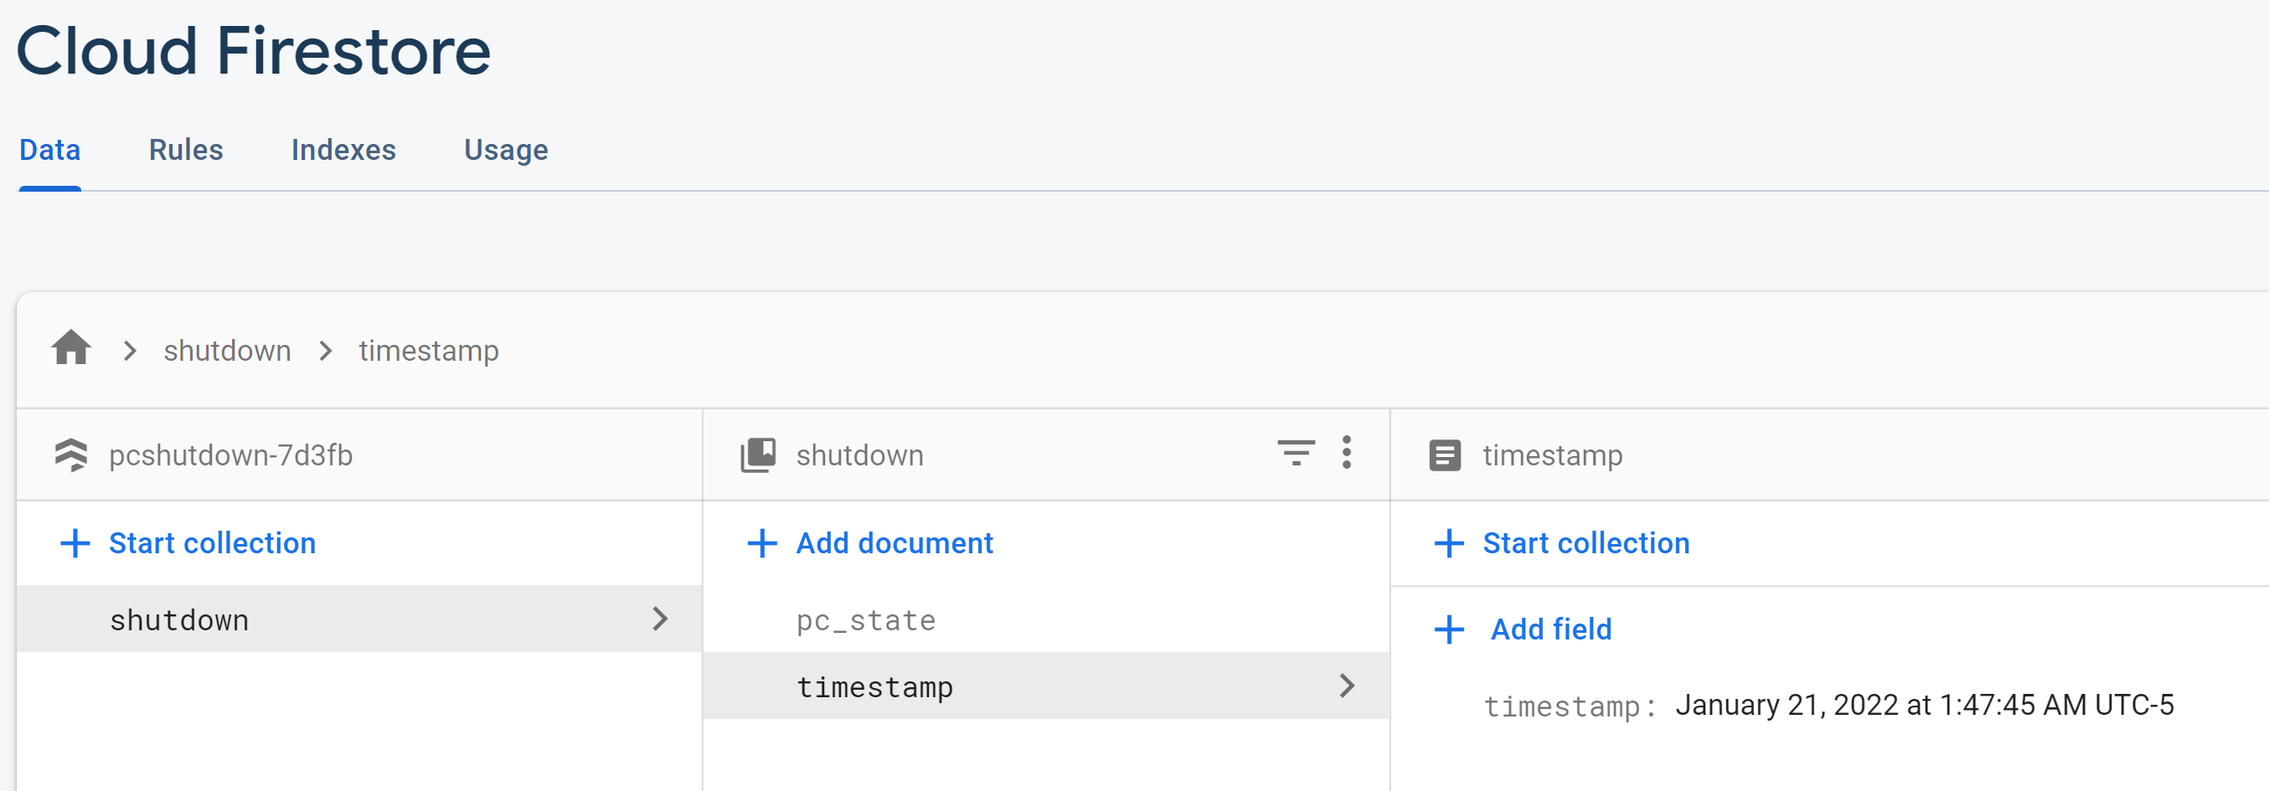
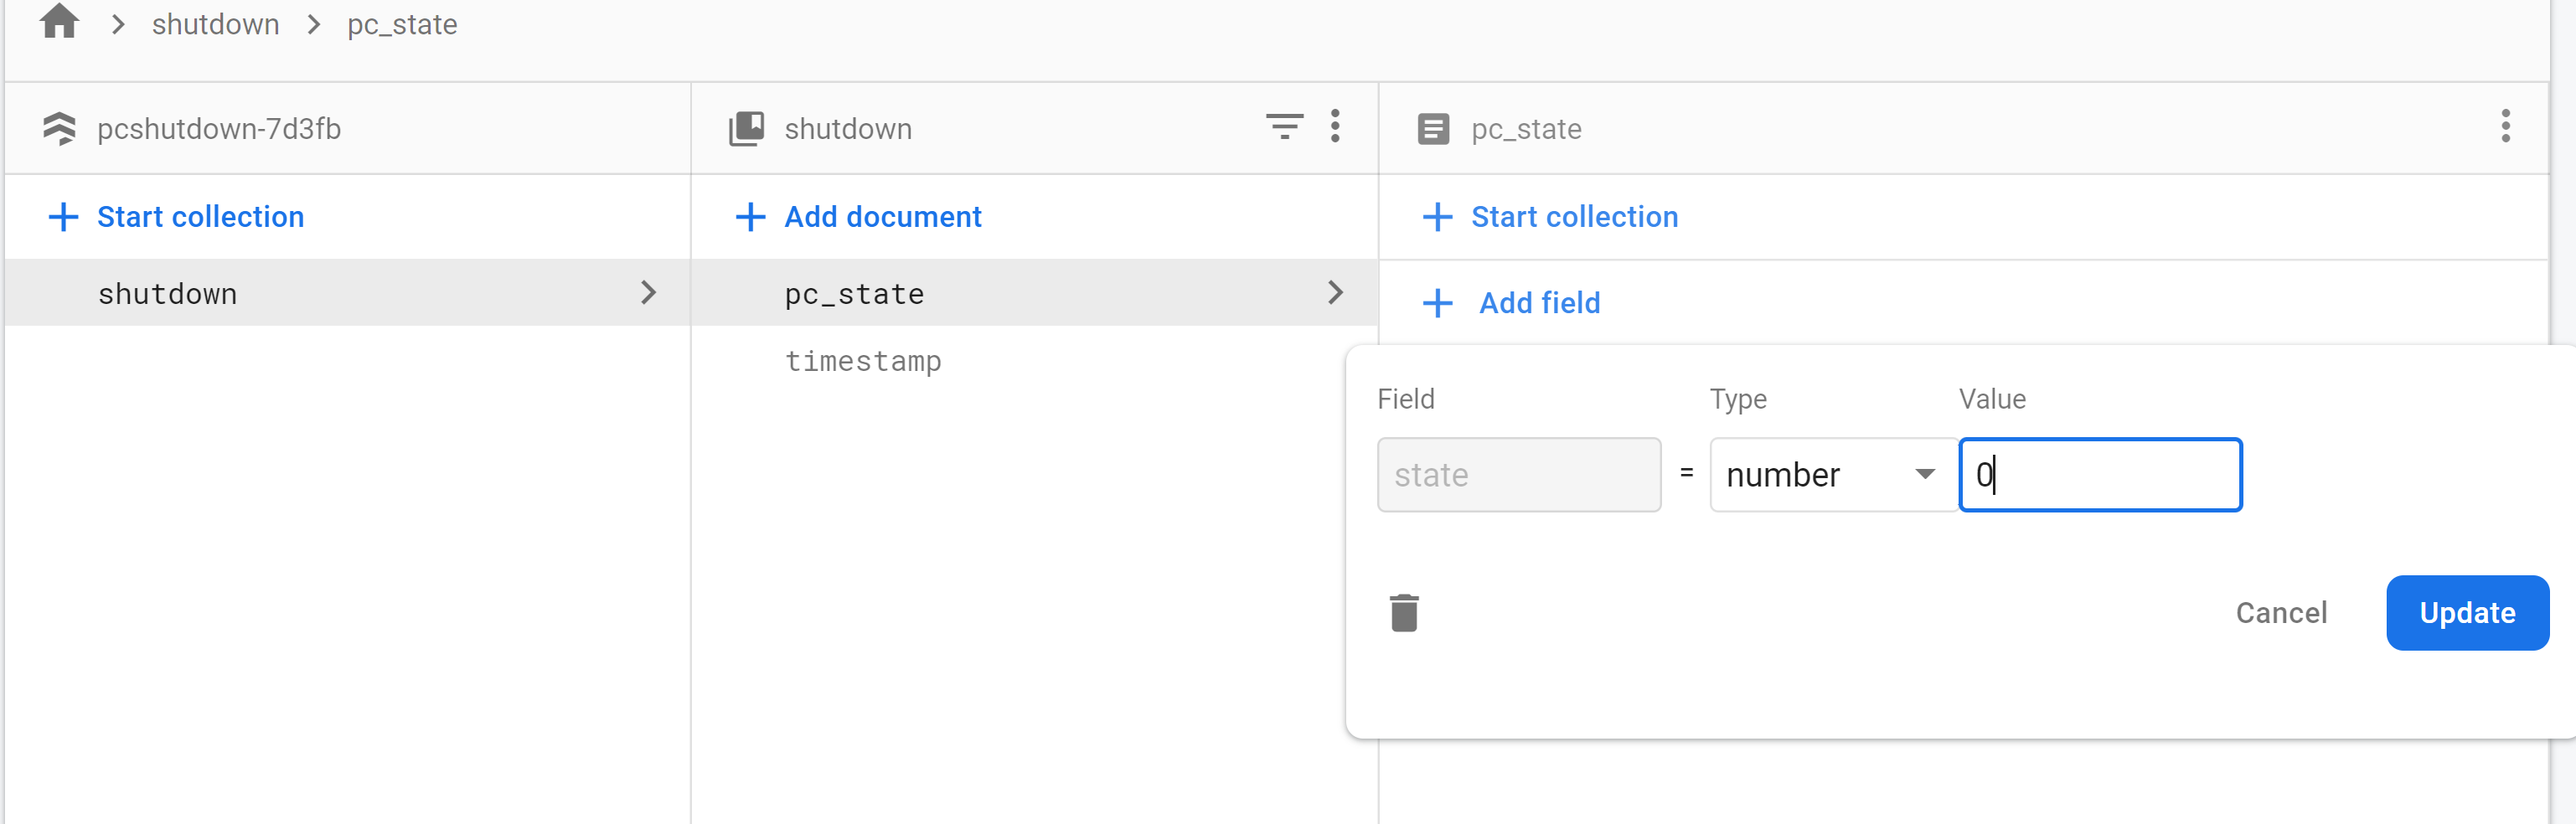
update README

diff --git a/README.md b/README.md
@@ -29,6 +29,8 @@ I prefer to install all my dependencies in a virtual environment.
 
 > Run the python code. It will set the PC state to 1 in database. As soon as you change the state value from 1 to 0, it will shutdown your pc. The timestamp is also updated every time you change state.
 
+![pc_state](images/image2.PNG)
+
 ### 5. (Optional)Create executable file using pyinstaller
 
 > Uncomment this line
